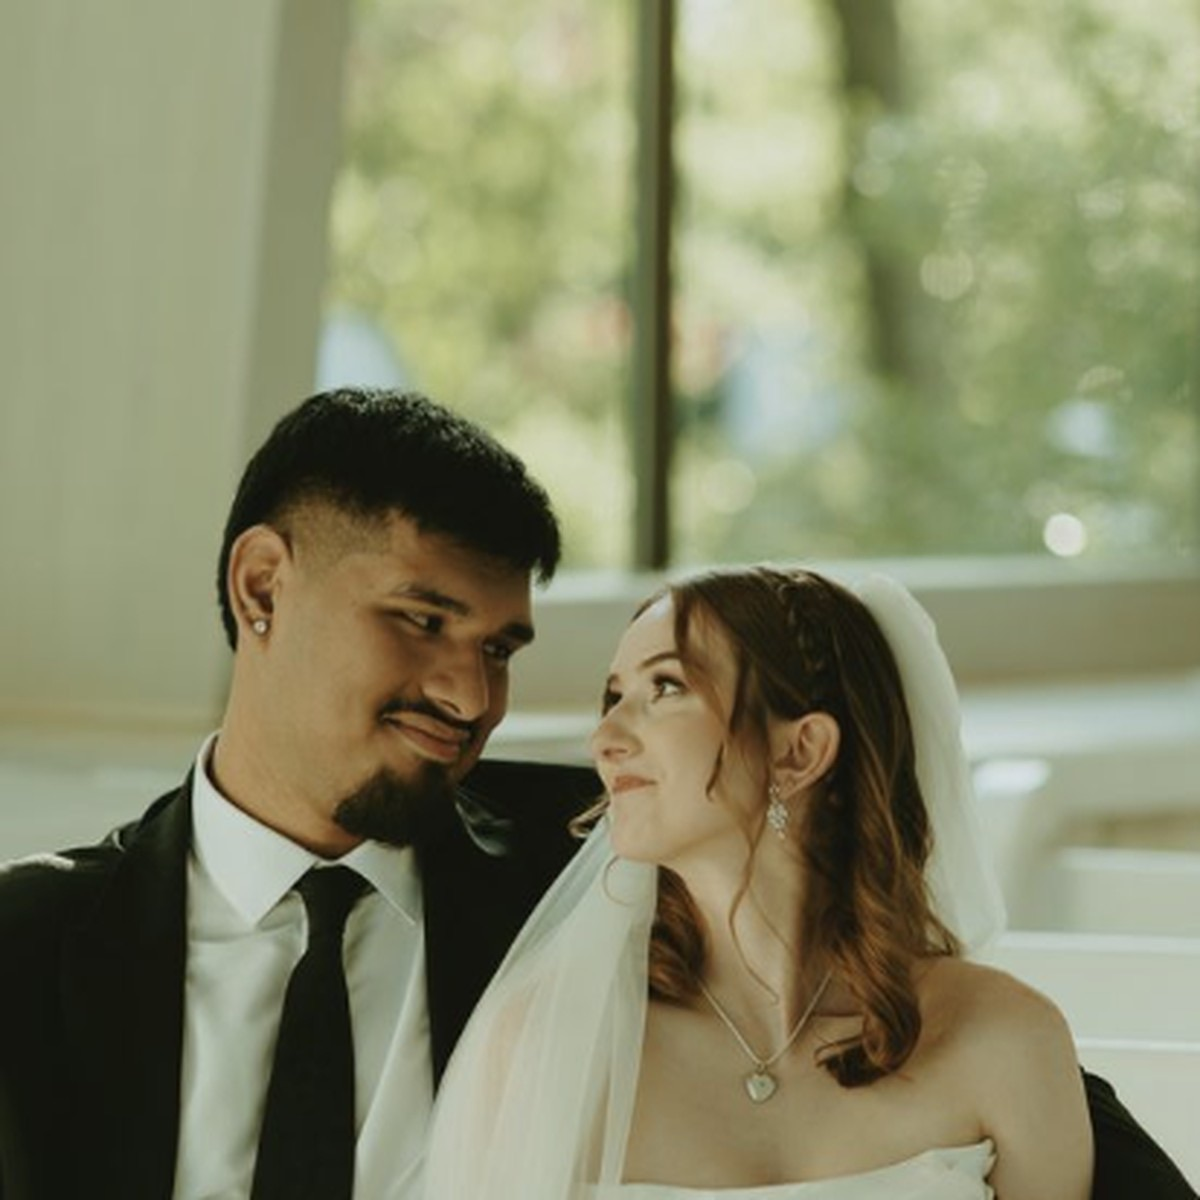
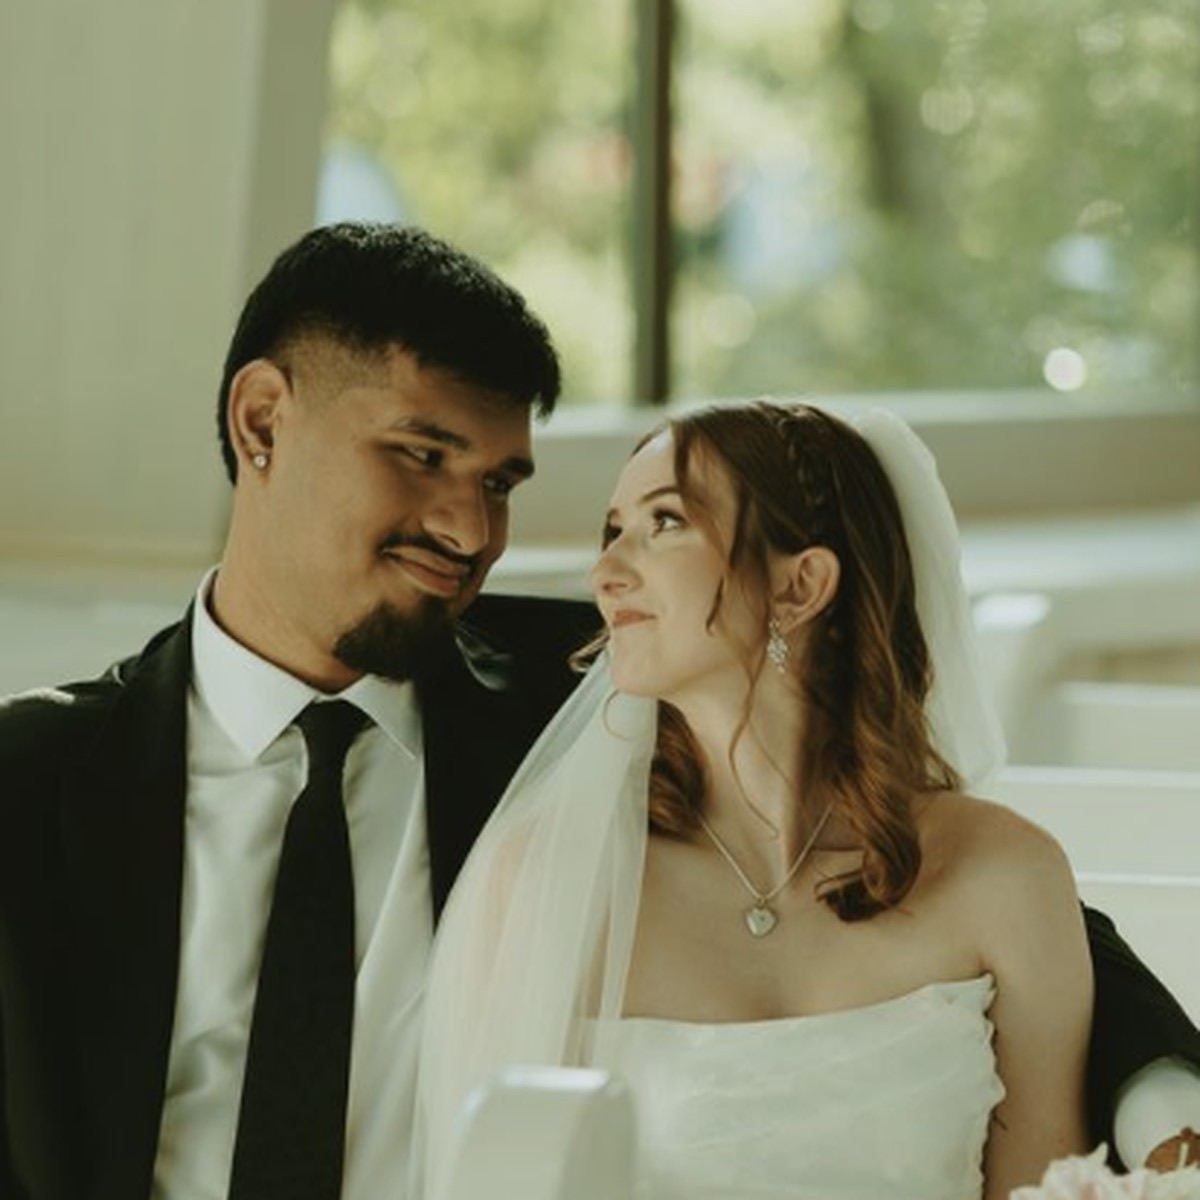
Add memorial image, wedding crop tweak, and pulsing CTA buttons.
Replace the memorials mosaic photo, pan the wedding crop down, and add a subtle pulse animation to Let's Get Started buttons site-wide.

diff --git a/styles.css b/styles.css
@@ -87,7 +87,37 @@ p{color:var(--ink-soft)}
   font-weight:600;
   letter-spacing:.02em;
   box-shadow:0 14px 30px -18px rgba(254,178,0,.8);
-  transition:transform .2s ease,background .2s ease,border-color .2s ease;
+  transition:transform .2s ease,background .2s ease,border-color .2s ease,box-shadow .2s ease;
+}
+.btn-pulse:not(.btn-ghost){
+  animation:btn-pulse 2.8s ease-in-out infinite;
+}
+.btn-pulse.btn-ghost{
+  animation:btn-pulse-ghost 2.8s ease-in-out infinite;
+}
+.btn-pulse:hover,
+.btn-pulse:focus-visible{
+  animation:none;
+}
+@keyframes btn-pulse{
+  0%,100%{
+    box-shadow:0 14px 30px -18px rgba(254,178,0,.8);
+    transform:scale(1);
+  }
+  50%{
+    box-shadow:0 18px 36px -14px rgba(254,178,0,.92), 0 0 0 5px rgba(254,178,0,.14);
+    transform:scale(1.015);
+  }
+}
+@keyframes btn-pulse-ghost{
+  0%,100%{
+    box-shadow:none;
+    border-color:var(--line);
+  }
+  50%{
+    box-shadow:0 0 0 4px rgba(254,178,0,.12);
+    border-color:rgba(254,178,0,.55);
+  }
 }
 .btn:hover{background:var(--yellow-deep);transform:translateY(-2px)}
 .btn-ghost{

diff --git a/index.html b/index.html
@@ -38,7 +38,7 @@
         <a href="gallery.html">Gallery</a>
         <a href="testimonials.html">Testimonials</a>
         <a href="faq.html">FAQ</a>
-        <a href="how-it-works.html#start" class="btn">Let's Get Started</a>
+        <a href="how-it-works.html#start" class="btn btn-pulse">Let's Get Started</a>
       </nav>
     </div>
   </header>
@@ -56,7 +56,7 @@
             <h1 id="hero-heading">Preserving memories,<br><span class="hero-accent">creating treasures</span></h1>
             <p class="hero-lead">Share your pictures — Storyline handles the editing, layout, and storytelling. You get a polished book your family will treasure.</p>
             <div class="btn-row hero-actions">
-              <a class="btn" href="how-it-works.html#start">Let's Get Started</a>
+              <a class="btn btn-pulse" href="how-it-works.html#start">Let's Get Started</a>
               <a class="btn btn-ghost" href="gallery.html">See the Gallery</a>
             </div>
             <ul class="hero-trust" aria-label="Storyline highlights">
@@ -116,7 +116,7 @@
             <figcaption><h3>Lobby Displays</h3><p>Clients will learn the story of your business while they're waiting.</p></figcaption>
           </figure>
           <figure class="mosaic-card reveal">
-            <img src="images/memorials-asian-woman.jpg" alt="Memorial photo book artwork" loading="lazy" width="600" height="600">
+            <img src="images/memorials.jpg" alt="Open memorial photo book with a loved one's life story" loading="lazy" width="600" height="600">
             <figcaption><h3>Memorials</h3><p>Honor the memory of a loved one with a book that tells their life story.</p></figcaption>
           </figure>
           <figure class="mosaic-card reveal">
@@ -156,7 +156,7 @@
         <p>Visit the gallery page to see book covers and inside pages to see what a finished Storyline book looks like.</p>
         <div class="btn-row">
           <a class="btn" href="gallery.html">Open the Gallery</a>
-          <a class="btn btn-ghost" href="how-it-works.html#start">Let's Get Started</a>
+          <a class="btn btn-ghost btn-pulse" href="how-it-works.html#start">Let's Get Started</a>
         </div>
       </div>
     </section>

diff --git a/faq.html b/faq.html
@@ -33,7 +33,7 @@
         <a href="gallery.html">Gallery</a>
         <a href="testimonials.html">Testimonials</a>
         <a class="active" href="faq.html" aria-current="page">FAQ</a>
-        <a href="how-it-works.html#start" class="btn">Let's Get Started</a>
+        <a href="how-it-works.html#start" class="btn btn-pulse">Let's Get Started</a>
       </nav>
     </div>
   </header>
@@ -96,7 +96,7 @@
         <span class="eyebrow">Ready to begin?</span>
         <h2>Let's start your book</h2>
         <div class="btn-row">
-          <a class="btn" href="how-it-works.html#start">Let's Get Started</a>
+          <a class="btn btn-pulse" href="how-it-works.html#start">Let's Get Started</a>
           <a class="btn btn-ghost" href="mailto:[email redacted]">Email Helen</a>
         </div>
       </div>

diff --git a/gallery.html b/gallery.html
@@ -38,7 +38,7 @@
         <a class="active" href="gallery.html" aria-current="page">Gallery</a>
         <a href="testimonials.html">Testimonials</a>
         <a href="faq.html">FAQ</a>
-        <a href="how-it-works.html#start" class="btn">Let's Get Started</a>
+        <a href="how-it-works.html#start" class="btn btn-pulse">Let's Get Started</a>
       </nav>
     </div>
   </header>

diff --git a/how-it-works.html b/how-it-works.html
@@ -38,7 +38,7 @@
         <a href="gallery.html">Gallery</a>
         <a href="testimonials.html">Testimonials</a>
         <a href="faq.html">FAQ</a>
-        <a href="#start" class="btn">Let's Get Started</a>
+        <a href="#start" class="btn btn-pulse">Let's Get Started</a>
       </nav>
     </div>
   </header>

diff --git a/testimonials.html b/testimonials.html
@@ -38,7 +38,7 @@
         <a href="gallery.html">Gallery</a>
         <a class="active" href="testimonials.html" aria-current="page">Testimonials</a>
         <a href="faq.html">FAQ</a>
-        <a href="how-it-works.html#start" class="btn">Let's Get Started</a>
+        <a href="how-it-works.html#start" class="btn btn-pulse">Let's Get Started</a>
       </nav>
     </div>
   </header>